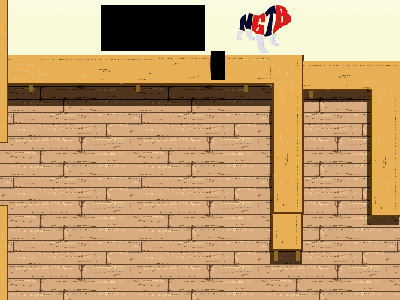
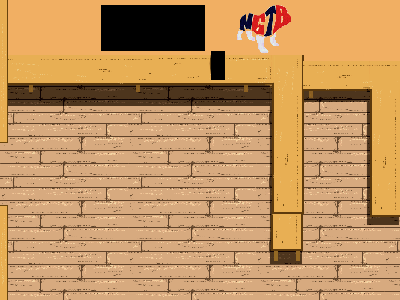
Added TV screen animation for NGTB

Changed region(s): [[0.0, 0.0, 1.0, 0.21]]

diff --git a/Python Files/main.py b/Python Files/main.py
@@ -204,6 +204,7 @@ keys = [False, False, False, False]  # The key statuses for UP DOWN LEFT RIGHT
 walk_cycle_speed = 40  # Lower is Faster: The speed of the walking and running animation
 walking_counter = 0  # Where the player is in the walking cycle
 animation_counter = 0  # Where the player is in the animation
+object_animation_counter = 0 # Where objects are in animations
 fullscreen = False  # Toggle for full-screen window
 is_walking = False  # The walking status of player
 is_running = False  # The running status of player
@@ -362,7 +363,33 @@ while True:
         walking_counter += 1
 
     # <editor-fold desc="Animation Player">
-    animation_counter += 1
+        animation_counter += 1
+        object_animation_counter += 1
+        # <editor-fold desc = "Object Animations">
+        if currentBoard == 1:
+            if object_animation_counter < 9:
+                object_animation_counter = 0
+            image = animation(10, object_animation_counter - 1, "TVAnimation",
+                              os.path.expanduser(
+                                  '~') + "/Desktop/ngtbgame/Animations/ObjectAnimations/"
+                              )
+            for obj in objects:
+                if obj.name == "TV":
+                    image = pygame.transform.scale(image, (obj.xSize, obj.ySize))
+                    obj.image = image
+        if currentBoard == 2:
+            if animation_counter > 59:
+                animation_counter = 0
+            image = animation(60, animation_counter - 1, "FountainAnimation",
+                              os.path.expanduser(
+                                  '~') + "/Desktop/ngtbgame/Animations/ObjectAnimations/"
+                              )
+            for obj in objects:
+                if obj.name == "Fountain":
+                    image = pygame.transform.scale(image, (obj.xSize, obj.ySize))
+                    obj.image = image
+    # </editor-fold>
+
     if is_walking == False and animation_delay > 60 * player_idle_animation_delay:
         if direction == DOWN:  # Idle animation for player facing down ------------------------------
             if animation_counter > 89:
@@ -393,19 +420,7 @@ while True:
     elif is_walking == True or is_running:
         animation_delay = 0
 
-    # <editor-fold desc = "Fountain Animation">
-    if currentBoard == 2:
-        if animation_counter > 59:
-            animation_counter = 0
-        image = animation(60, animation_counter - 1, "FountainAnimation",
-                          os.path.expanduser(
-                              '~') + "/Desktop/ngtbgame/Animations/ObjectAnimations/"
-                          )
-        for obj in objects:
-            if obj.name == "Fountain":
-                image = pygame.transform.scale(image, (obj.xSize, obj.ySize))
-                obj.image = image
-    # </editor-fold>
+
 
     # <editor-fold desc="Rendering">
     pygame.sprite.Group.update(spriteGroup)

diff --git a/Python Files/objectSprite.py b/Python Files/objectSprite.py
@@ -3,6 +3,8 @@ import pygame, sys, math, os
 from pygame.locals import *
 
 
+
+
 def getBoardNum(line):
     return int(line[5:8])
 
@@ -89,12 +91,17 @@ def getYSize(line):
 
 class objectSprite(pygame.sprite.Sprite):
     def __init__(self, line):
+        for x in range(len(line)):
+            if (line[x] == ","):
+                line = line[:x]
+                break
         super(objectSprite, self).__init__()
 
         os.chdir(os.path.expanduser('~') + "/Desktop/ngtbgame/ObjectImages")
         self.name = getObjectName(line)
         self.board = getBoardNum(line)
         self.label = self.name
+        print(self.label)
         self.xSize = getXSize(line)
         self.ySize = getYSize(line)
         image = pygame.image.load(self.name + ".png")
